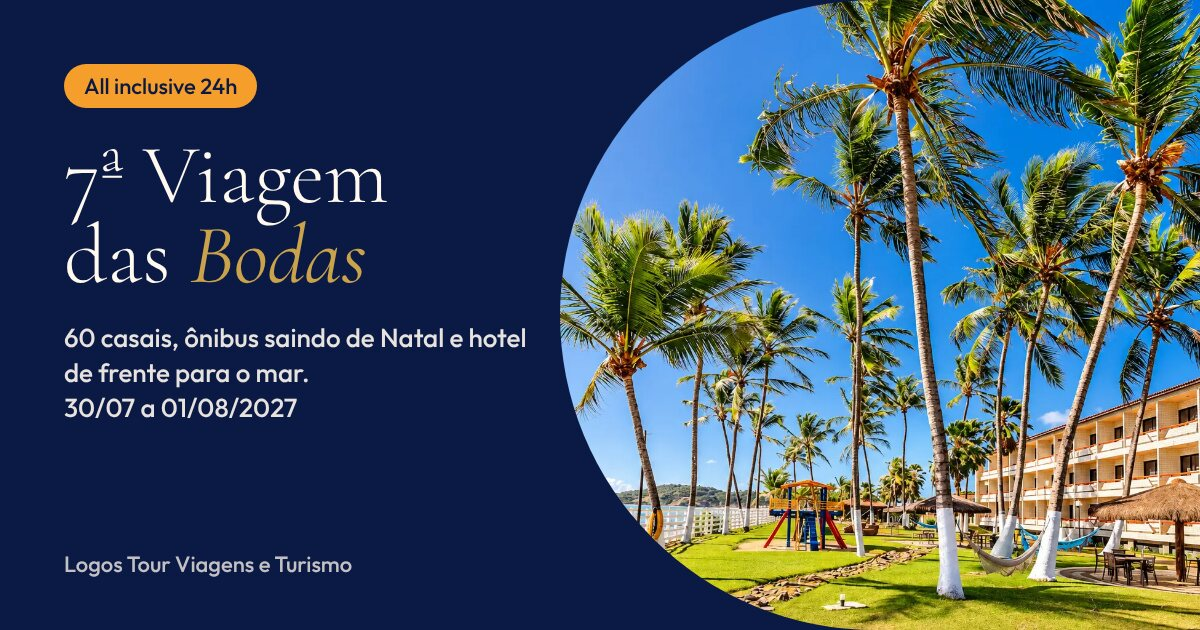
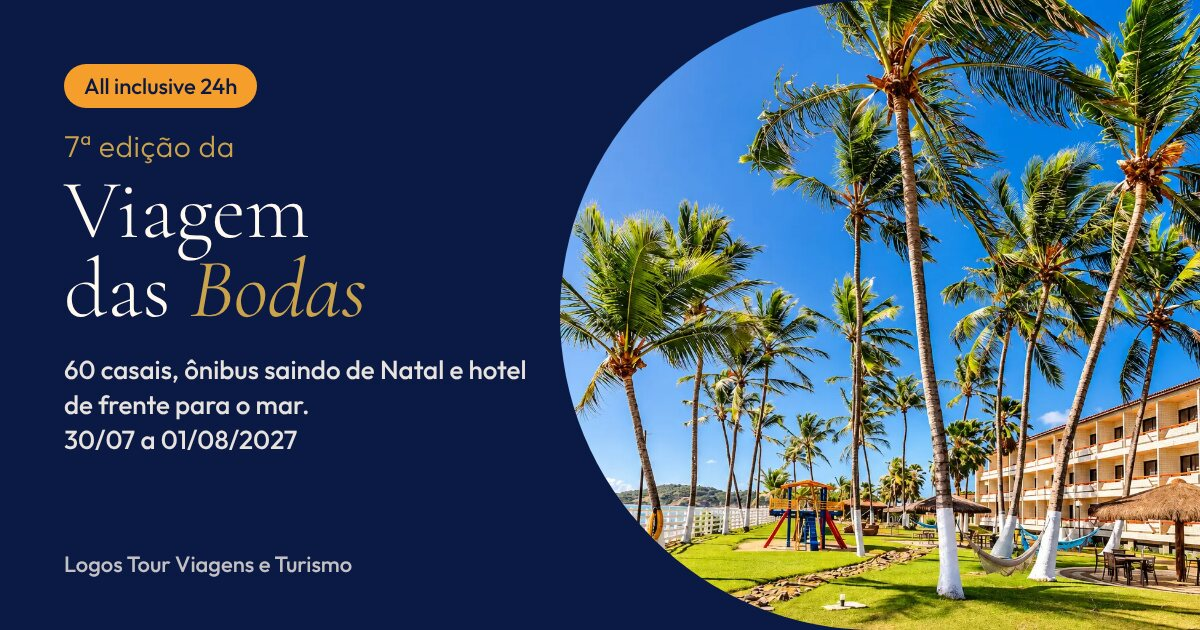
Imagem de prévia com "7ª edição da Viagem das Bodas"
Claude-Session: https://claude.ai/code/session_01BuBshvrcAKVWCqfvFF8uyV

Changed region(s): [[0.0308, 0.2111, 0.4317, 0.7238]]

diff --git a/index.html b/index.html
@@ -12,7 +12,7 @@
 <meta property="og:title" content="7ª edição da Viagem das Bodas | Fim de semana all inclusive para casais">
 <meta property="og:description" content="60 casais, ônibus saindo de Natal e hotel all inclusive 24h de frente para o mar. 30/07 a 01/08/2027.">
 <meta property="og:url" content="https://viagemdasbodas.logostourviagens.com.br/">
-<meta property="og:image" content="https://viagemdasbodas.logostourviagens.com.br/og-image.jpg">
+<meta property="og:image" content="https://viagemdasbodas.logostourviagens.com.br/og-image.jpg?v=2">
 <meta property="og:image:width" content="1200">
 <meta property="og:image:height" content="630">
 <meta property="og:image:type" content="image/jpeg">
@@ -21,7 +21,7 @@
 <meta name="twitter:card" content="summary_large_image">
 <meta name="twitter:title" content="7ª edição da Viagem das Bodas | Fim de semana all inclusive para casais">
 <meta name="twitter:description" content="60 casais, ônibus saindo de Natal e hotel all inclusive 24h de frente para o mar. 30/07 a 01/08/2027.">
-<meta name="twitter:image" content="https://viagemdasbodas.logostourviagens.com.br/og-image.jpg">
+<meta name="twitter:image" content="https://viagemdasbodas.logostourviagens.com.br/og-image.jpg?v=2">
 
 <link rel="icon" href="/favicon.svg" type="image/svg+xml">
 <link rel="apple-touch-icon" href="/apple-touch-icon.png">
@@ -43,7 +43,7 @@
   "eventAttendanceMode": "https://schema.org/OfflineEventAttendanceMode",
   "touristType": "Casais",
   "maximumAttendeeCapacity": 120,
-  "image": ["https://viagemdasbodas.logostourviagens.com.br/og-image.jpg"],
+  "image": ["https://viagemdasbodas.logostourviagens.com.br/og-image.jpg?v=2"],
   "location": {
     "@type": "Hotel",
     "name": "El Aram Beach Cabo All Inclusive",
